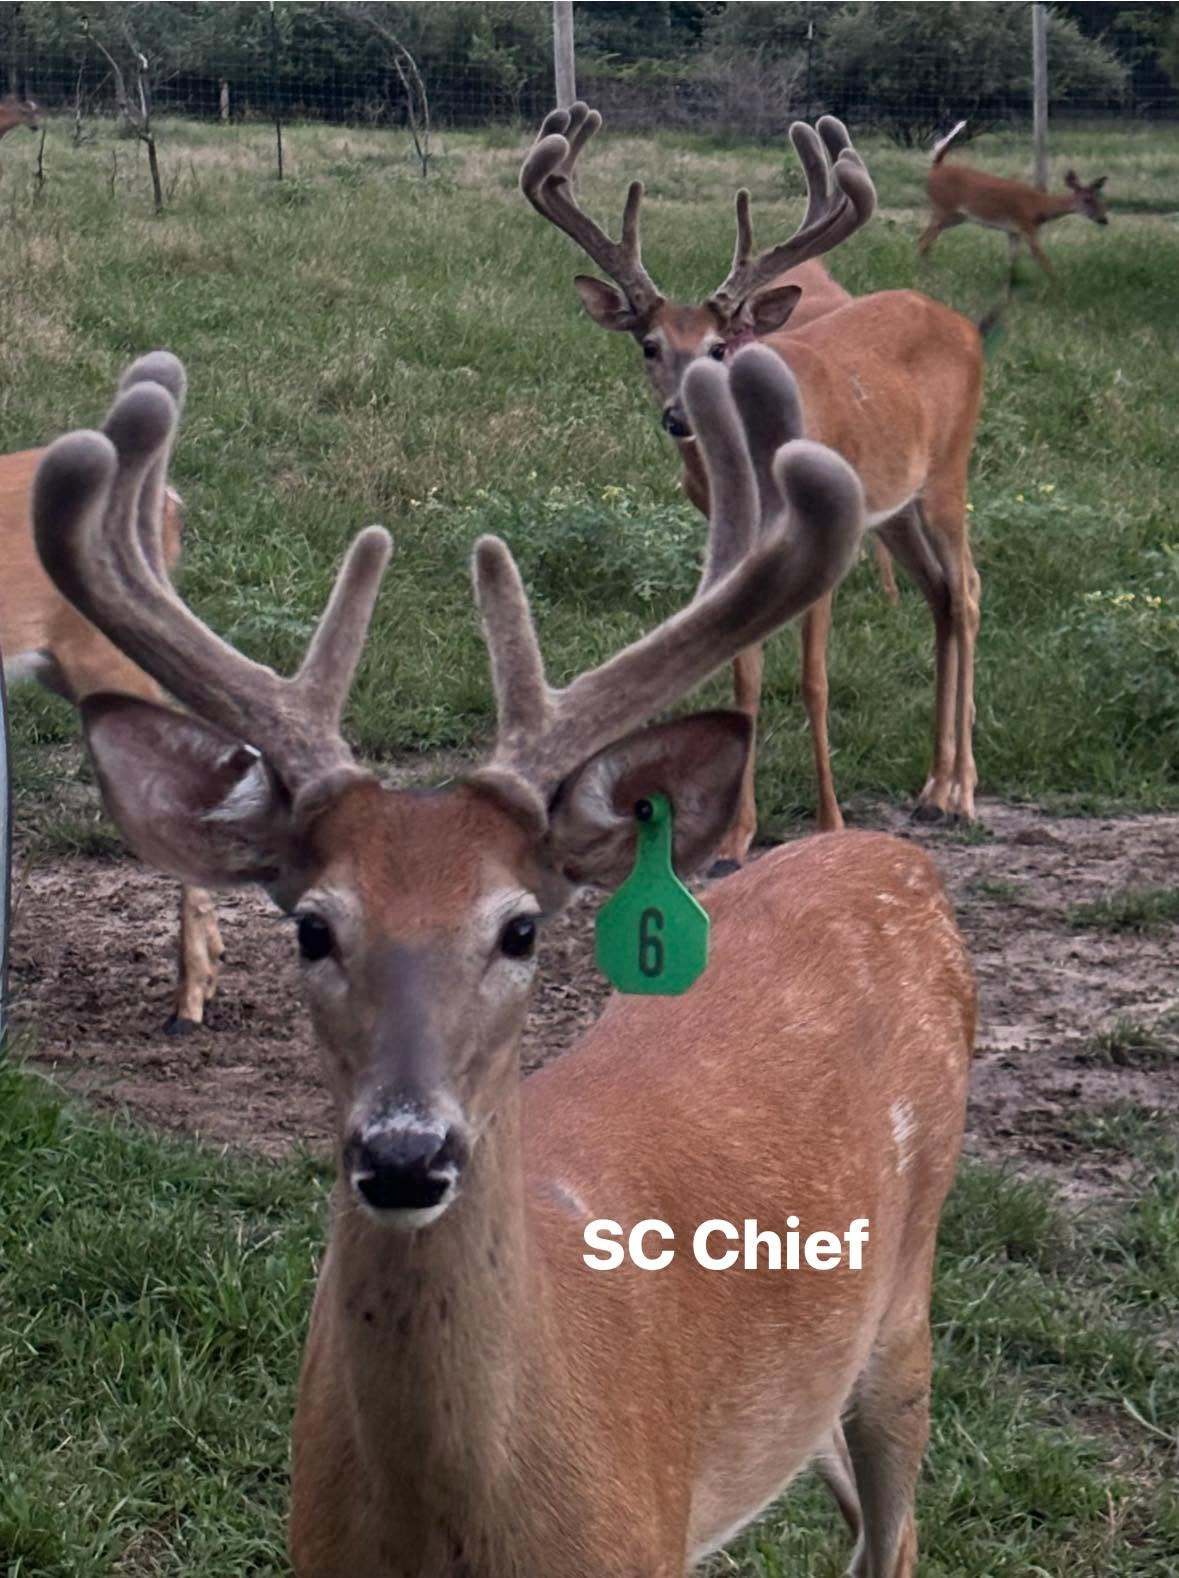
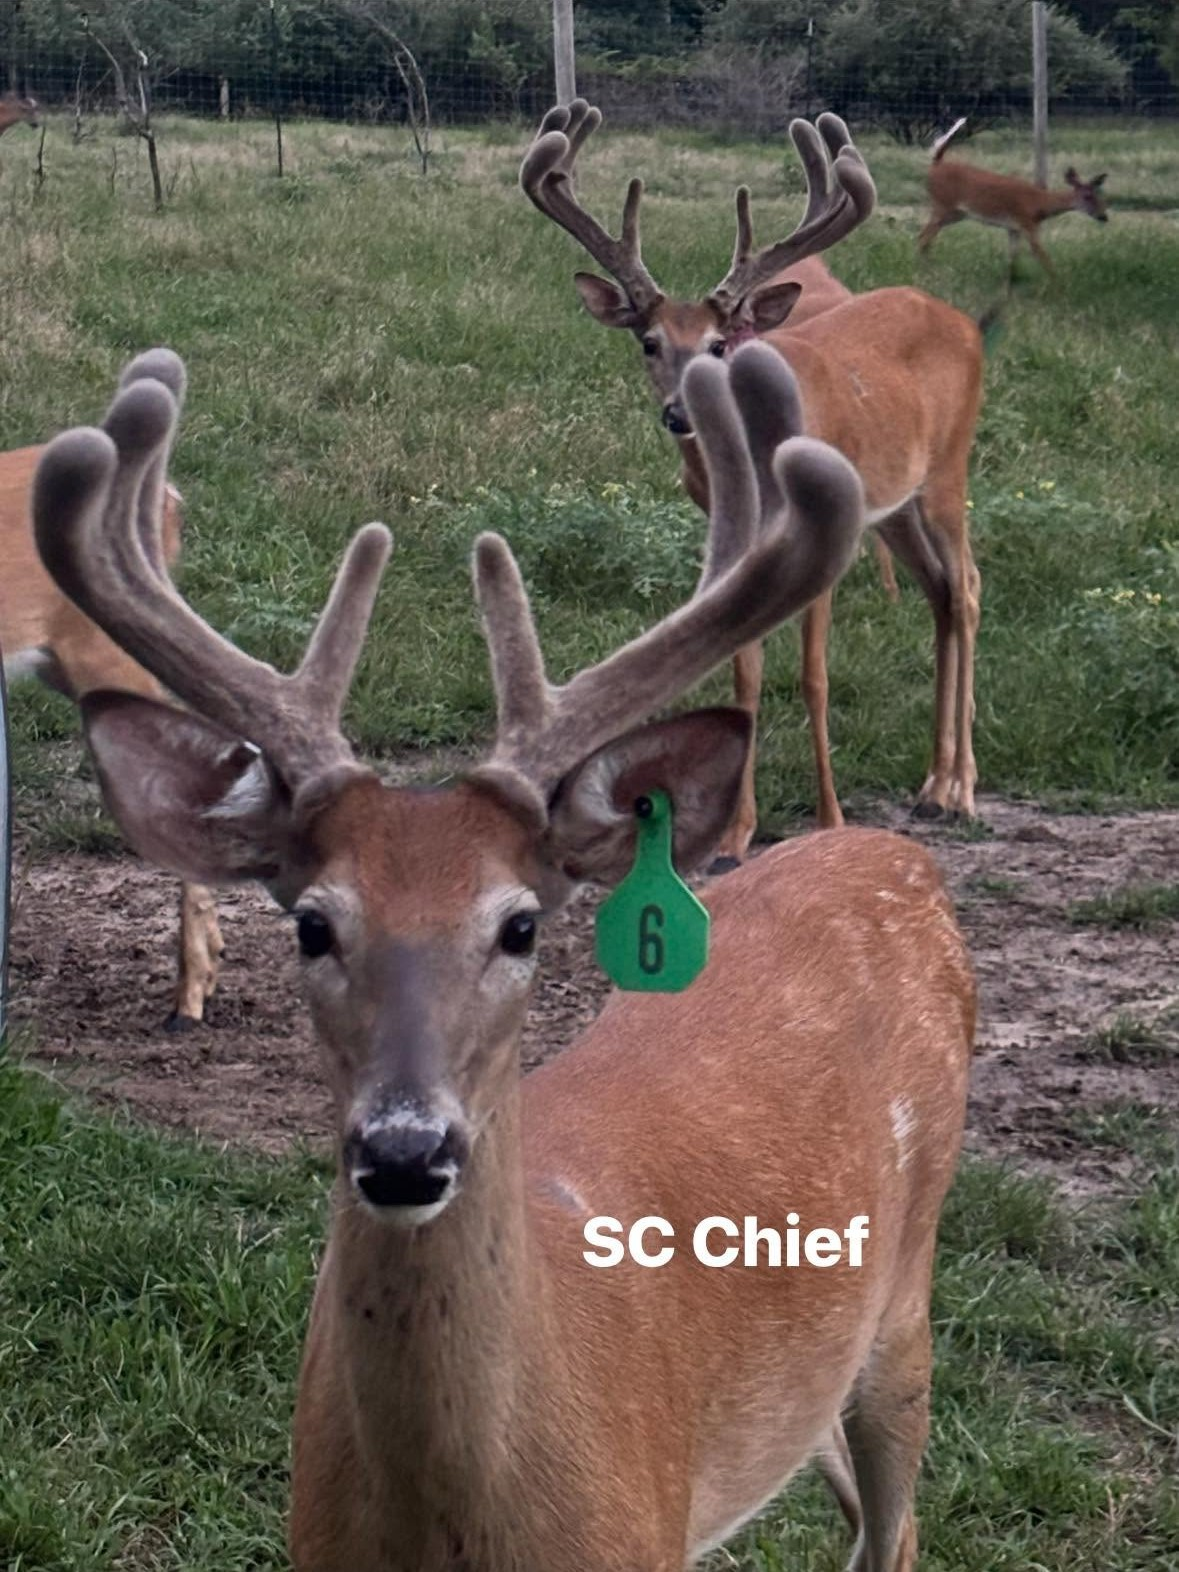
about photos edge to edge, taller

diff --git a/css/style.css b/css/style.css
@@ -216,22 +216,27 @@ a { text-decoration: none; color: inherit; }
 }
 
 /* ── ABOUT ── */
-.about-content { padding: 80px 20px; background: #f5f0eb; }
+.about-content { padding: 80px 0; background: #f5f0eb; }
 
 .about-layout {
     display: grid;
     grid-template-columns: 1fr 500px 1fr;
     gap: 40px;
     align-items: start;
+    max-width: 100%;
+    padding: 0;
 }
 
-.about-img-col { flex-shrink: 0; }
+.about-img-col {
+    flex-shrink: 0;
+    overflow: hidden;
+}
 
 .about-img {
     width: 100%;
-    height: auto;
+    height: 700px;
     object-fit: cover;
-    object-position: top center;
+    object-position: center center;
     display: block;
     box-shadow: 0 4px 20px rgba(0,0,0,0.15);
 }
@@ -247,6 +252,7 @@ a { text-decoration: none; color: inherit; }
     padding-bottom: 8px;
 }
 
+.about-text { padding: 0 20px; }
 .about-text h2:first-child { margin-top: 0; }
 .about-text p { margin-bottom: 15px; color: #555; font-size: 1rem; line-height: 1.8; }
 